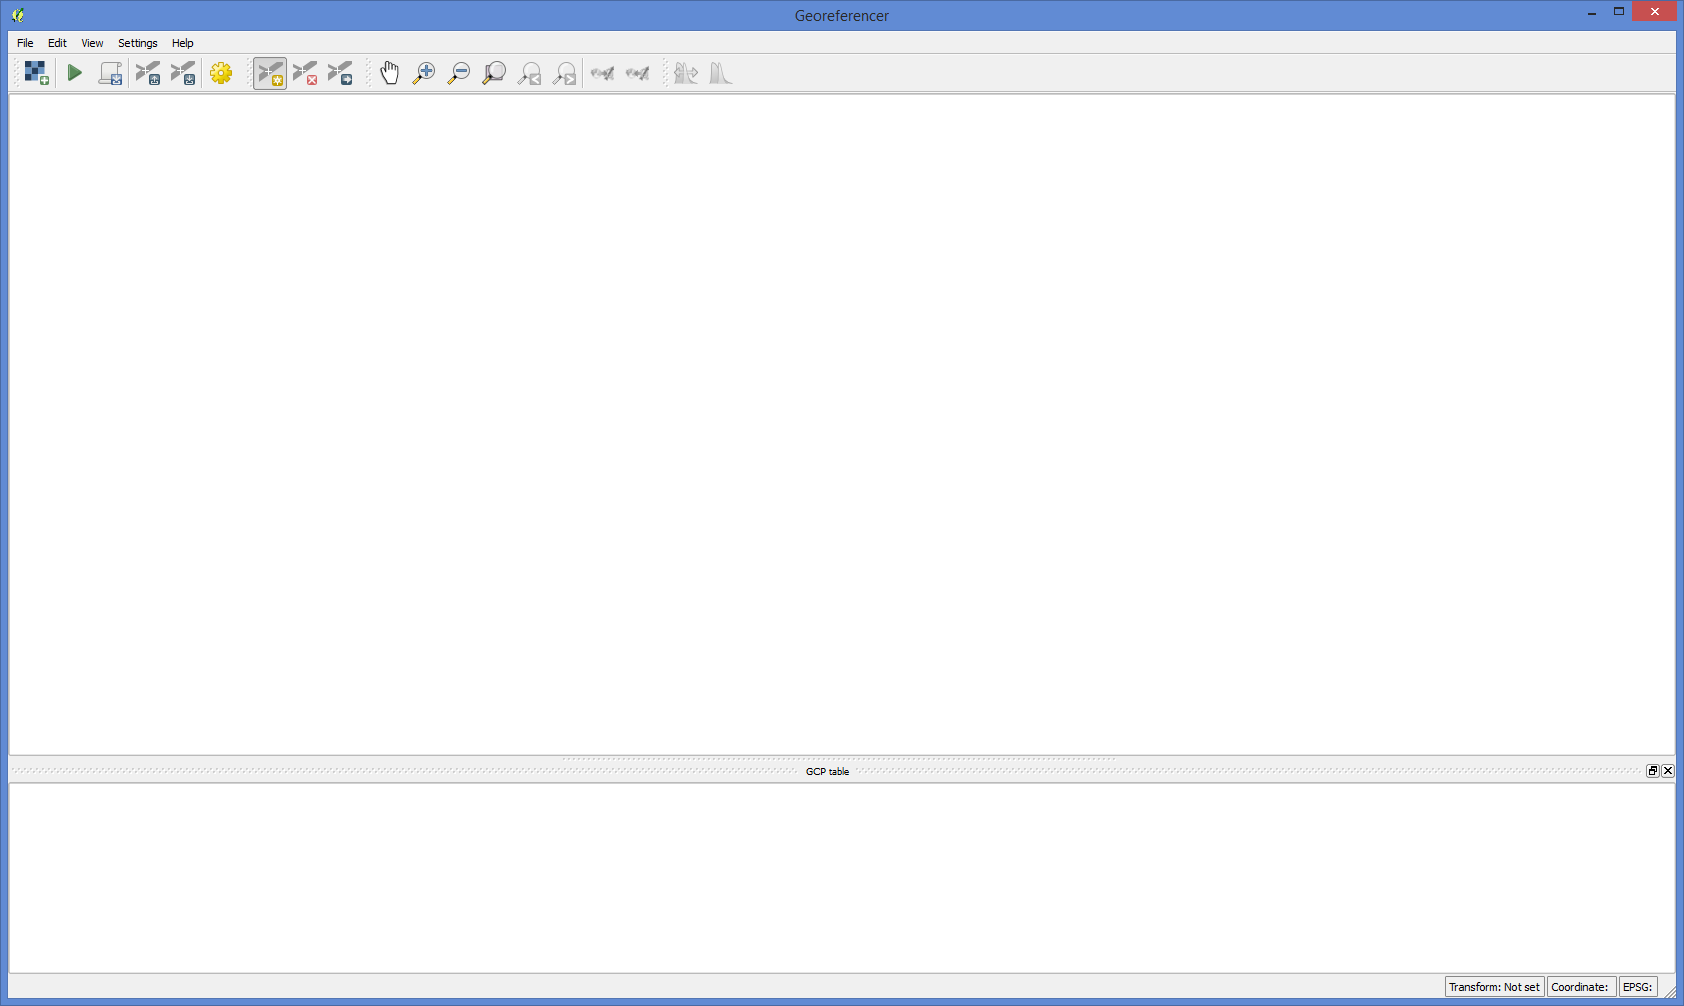
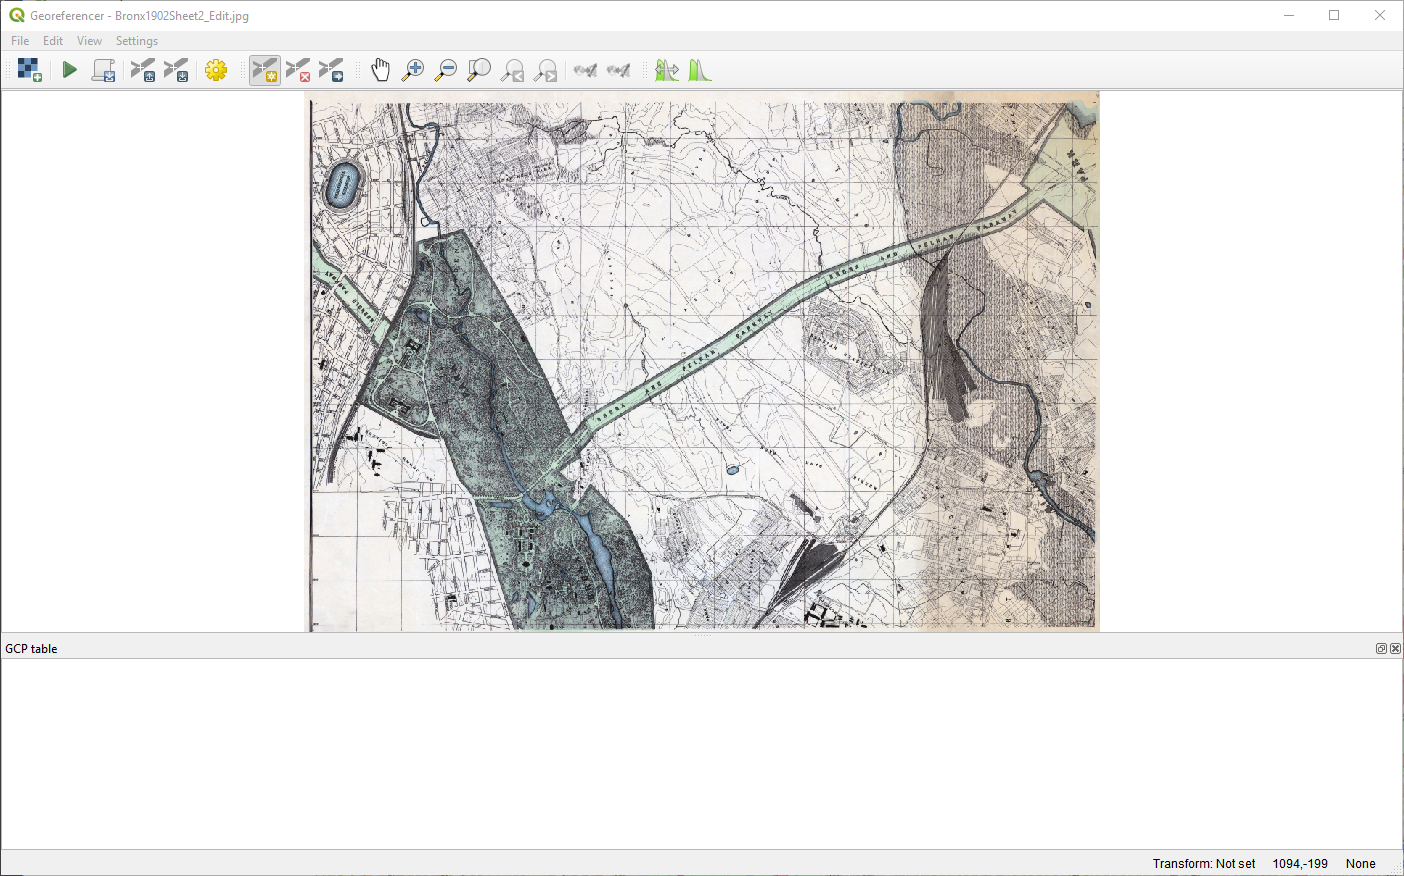
Update

diff --git a/Tutorials/05_MakingData02.md b/Tutorials/05_MakingData02.md
@@ -25,60 +25,50 @@ If you haven't already, download the GitHub repository for this course. Using th
 
 Open QGIS:
 
-![blank](https://github.com/CenterForSpatialResearch/mapping_for_the_urban_humanities/blob/master/Tutorials/Images/MakingData01/GeoRef1.png)
+![open](https://github.com/CenterForSpatialResearch/mapping_for_the_urban_humanities/blob/master/Tutorials/Images/MakingData01/GeoRef1.png)
 
-You are going to use OSM data as the reference data for the georeferencing process. You can view the OSM basemap service is QGIS through the OpenLayers plugin. This plugin does not come pre-installed with QGIS, so you will probably need to add it. Under the plugins menu, select “Manage and Install Plugins…”
-![option](https://github.com/CenterForSpatialResearch/MappingForTheUrbanHumanities_2018/blob/master/Images/mappingdata04_02.png)
+You are going to use OSM data as the reference data for the georeferencing process. You can view the OSM web basemap service directly through QGIS. One way to do this is to connect to OSM directly through the QGIS browser.  Expand "XYZ Tiles" in the QGIS browser listing and click on OpenStreetMap:
 
-The plugins dialog will open. Search for “Openlayers Plugin.”  Highlight it, and click “Install plugin”:
-
-![plugin dialogue](https://github.com/CenterForSpatialResearch/MappingForTheUrbanHumanities_2018/blob/master/Images/mappingdata04_03.png)
-
-It may take a few seconds to install.  Close the plugins menu when finished. The OpenLayers tools should now appear under the Web menu:
-
-![plugin](https://github.com/CenterForSpatialResearch/MappingForTheUrbanHumanities_2018/blob/master/Images/mappingdata04_04.png)
-
-This plugin will allow you to view a number of basemap services and stream them directly into your QGIS workspace. Choose the OpenStreetMap > OpenStreetMap option.
-
-![plugin](https://github.com/CenterForSpatialResearch/MappingForTheUrbanHumanities_2018/blob/master/Images/mappingdata04_05.png)
+![XYZ Tiles](https://github.com/CenterForSpatialResearch/mapping_for_the_urban_humanities/blob/master/Tutorials/Images/MakingData01/GeoRef2.png)
 
 Since you are working in a new QGIS project, the map should show the entire earth as the default:
-![qgis osm ](https://github.com/CenterForSpatialResearch/MappingForTheUrbanHumanities_2018/blob/master/Images/mappingdata04_06.png)
+![OSM](https://github.com/CenterForSpatialResearch/mapping_for_the_urban_humanities/blob/master/Tutorials/Images/MakingData01/GeoRef3.png)
 
-Use the zoom-in tool ![blank](https://github.com/CenterForSpatialResearch/MappingForTheUrbanHumanities/blob/master/Tutorials/Images/MakingData01/GeoRef6.png) and zoom into the Central Bronx in the area around The Botanical Garden<!--this took a lot of time for my computer to process. consider adding coordinates they can just type in?-->:
+Use the zoom-in tool ![zoom tool](https://github.com/CenterForSpatialResearch/mapping_for_the_urban_humanities/blob/master/Tutorials/Images/MakingData01/GeoRef4.png) and zoom into the Central Bronx in the area around The Botanical Garden:
 
-![garden zoom ](https://github.com/CenterForSpatialResearch/MappingForTheUrbanHumanities_2018/blob/master/Images/mappingdata04_07.png)
+![garden zoom ](https://github.com/CenterForSpatialResearch/mapping_for_the_urban_humanities/blob/master/Tutorials/Images/MakingData01/GeoRef5.png)
+
 Now you will access the georeferencing tools and match the scanned map to the OSM map.
 
 Under the Raster menu,<!--Georeferencer was not automatically activated on my version. May have to manually activate on others.--> select Georeferencer>Georeferencer:
-![georeferencer ](https://github.com/CenterForSpatialResearch/MappingForTheUrbanHumanities_2018/blob/master/Images/mappingdata04_08.png)
+![georeferencer ](https://github.com/CenterForSpatialResearch/mapping_for_the_urban_humanities/blob/master/Tutorials/Images/MakingData01/GeoRef6.png)
 
 The Georeferencer screen will open:
-![georeferencer window](https://github.com/CenterForSpatialResearch/MappingForTheUrbanHumanities_2018/blob/master/Images/mappingdata04_09.png)
+![georeferencer window](https://github.com/CenterForSpatialResearch/mapping_for_the_urban_humanities/blob/master/Tutorials/Images/MakingData01/GeoRef7.png)
 
-Click on the Add Raster button ![blank](https://github.com/CenterForSpatialResearch/MappingForTheUrbanHumanities/blob/master/Tutorials/Images/MakingData01/GeoRef10a.png) and navigate to the JPEG image "Bronx1902Sheet2_Edit.jpg" from the class files in the directory Class_Data/2_MakingData.
+Click on the Add Raster button ![Add Raster](https://github.com/CenterForSpatialResearch/mapping_for_the_urban_humanities/blob/master/Tutorials/Images/MakingData01/GeoRef8.png)  and navigate to the JPEG image "Bronx1902Sheet2_Edit.jpg" from the class files in the directory Class_Data/2_MakingData.
 
 It will appear in the georeferencer window:
-![georeferencer window with map](https://github.com/CenterForSpatialResearch/MappingForTheUrbanHumanities_2018/blob/master/Images/mappingdata04_10.png)
+![georeferencer window with map](https://github.com/CenterForSpatialResearch/mapping_for_the_urban_humanities/blob/master/Tutorials/Images/MakingData01/GeoRef9.png)
 
 This map is one sheet of six of a map of the East Bronx in 1902.  This section represents the area around the New York Botanical Garden and the (then new) Bronx Zoo. Fordham University can be seen just to the southwest of the garden and the Norwood neighborhood is in the northeast corner. The area to the east of the Bronx Park area is still largely undeveloped at this point.
 
 Historical maps can be difficult to georeference, and this sheet illustrates a number of the complications that can arise. The map projection is unclear and there are no ground control points or coordinates specified on the image itself. Because of this, you will georeference by matching physical features represented on the map with their current counterparts (and their known coordinates). However, most of the features in this map have changed or no longer exist (or were never actually built in the first place). Thus, you will need to be very careful to choose locations that you are confident match up well with their contemporary counterparts. Fortunately, there are a number of good candidates, particularly on the western half of the map where many streets and buildings still exist in the same location. You can use these landmarks to georeference the map.
 
 The QGIS georeferencer does not allow you to view both the scanned map and the workspace at the same time, so you will have to inspect both maps in turn and choose carefully to select locations to add georeferencing control points.
-One candidate is the Haupt Conservatory in the Botanical Garden which continues to exist largely its original configuration. Use the georeferencer zoom tools ![blank](https://github.com/CenterForSpatialResearch/MappingForTheUrbanHumanities/blob/master/Tutorials/Images/MakingData01/GeoRef11.png) to zoom to the conservatory structure in the southwest corner of the park:
+One candidate is the Haupt Conservatory in the Botanical Garden which continues to exist largely its original configuration. Use the georeferencer zoom tools ![blank](https://github.com/CenterForSpatialResearch/mapping_for_the_urban_humanities/blob/master/Tutorials/Images/MakingData01/GeoRef10.png) to zoom to the conservatory structure in the southwest corner of the park:
 
-![blank](https://github.com/CenterForSpatialResearch/MappingForTheUrbanHumanities/blob/master/Tutorials/Images/MakingData01/GeoRef12.png)
-![blank](https://github.com/CenterForSpatialResearch/MappingForTheUrbanHumanities/blob/master/Tutorials/Images/MakingData01/GeoRef13.png)
+![blank](https://github.com/CenterForSpatialResearch/mapping_for_the_urban_humanities/blob/master/Tutorials/Images/MakingData01/GeoRef11.png)
+![blank](https://github.com/CenterForSpatialResearch/mapping_for_the_urban_humanities/blob/master/Tutorials/Images/MakingData01/GeoRef12.png)
 
-Identify as precise a location as possible (a corner of the building will work nicely) and click on it in the georeferencing window using the add point tool ![blank](https://github.com/CenterForSpatialResearch/MappingForTheUrbanHumanities/blob/master/Tutorials/Images/MakingData01/GeoRef17.png) When you do so, the Enter map coordinates window appears:
+Identify as precise a location as possible (a corner of the building will work nicely) and click on it in the georeferencing window using the add point tool ![Add Map](https://github.com/CenterForSpatialResearch/mapping_for_the_urban_humanities/blob/master/Tutorials/Images/MakingData01/GeoRef13.png) When you do so, the Enter map coordinates window appears:
 
-![blank](https://github.com/CenterForSpatialResearch/MappingForTheUrbanHumanities/blob/master/Tutorials/Images/MakingData01/GeoRef14.png)
+![Enter Coords](https://github.com/CenterForSpatialResearch/mapping_for_the_urban_humanities/blob/master/Tutorials/Images/MakingData01/GeoRef14.png)
 
-If you knew the coordinates of this location, you could now add them manually, but since you do not, you can select them from the OSM data in the main QGIS window. Click on the ![blank](https://github.com/CenterForSpatialResearch/MappingForTheUrbanHumanities/blob/master/Tutorials/Images/MakingData01/GeoRef15.png) button to see the QGIS workspace.
+If you knew the coordinates of this location, you could now add them manually, but since you do not, you can select them from the OSM data in the main QGIS window. Click on the ![blank](https://github.com/CenterForSpatialResearch/mapping_for_the_urban_humanities/blob/master/Tutorials/Images/MakingData01/GeoRef15.png) button to see the QGIS workspace.
 You may want to zoom in very closely to the conservatory.
 
-![conservatory](https://github.com/CenterForSpatialResearch/MappingForTheUrbanHumanities_2018/blob/master/Images/mappingdata04_11.png)
+![conservatory](https://github.com/CenterForSpatialResearch/mapping_for_the_urban_humanities/blob/master/Tutorials/Images/MakingData01/GeoRef16.png)
 
 Once you do so, you will need to reactivate the add button tool ![blank](https://github.com/CenterForSpatialResearch/MappingForTheUrbanHumanities/blob/master/Tutorials/Images/MakingData01/GeoRef17.png) by maximizing the georeferencing window and clicking the ![blank](https://github.com/CenterForSpatialResearch/MappingForTheUrbanHumanities/blob/master/Tutorials/Images/MakingData01/GeoRef18.png) button again. Once you select the same location on the workspace window, you will automatically be brought back to the georeferencing window where the assigned coordinates will be imputed.
 ![blank](https://github.com/CenterForSpatialResearch/MappingForTheUrbanHumanities/blob/master/Tutorials/Images/MakingData01/GeoRef19.png)
